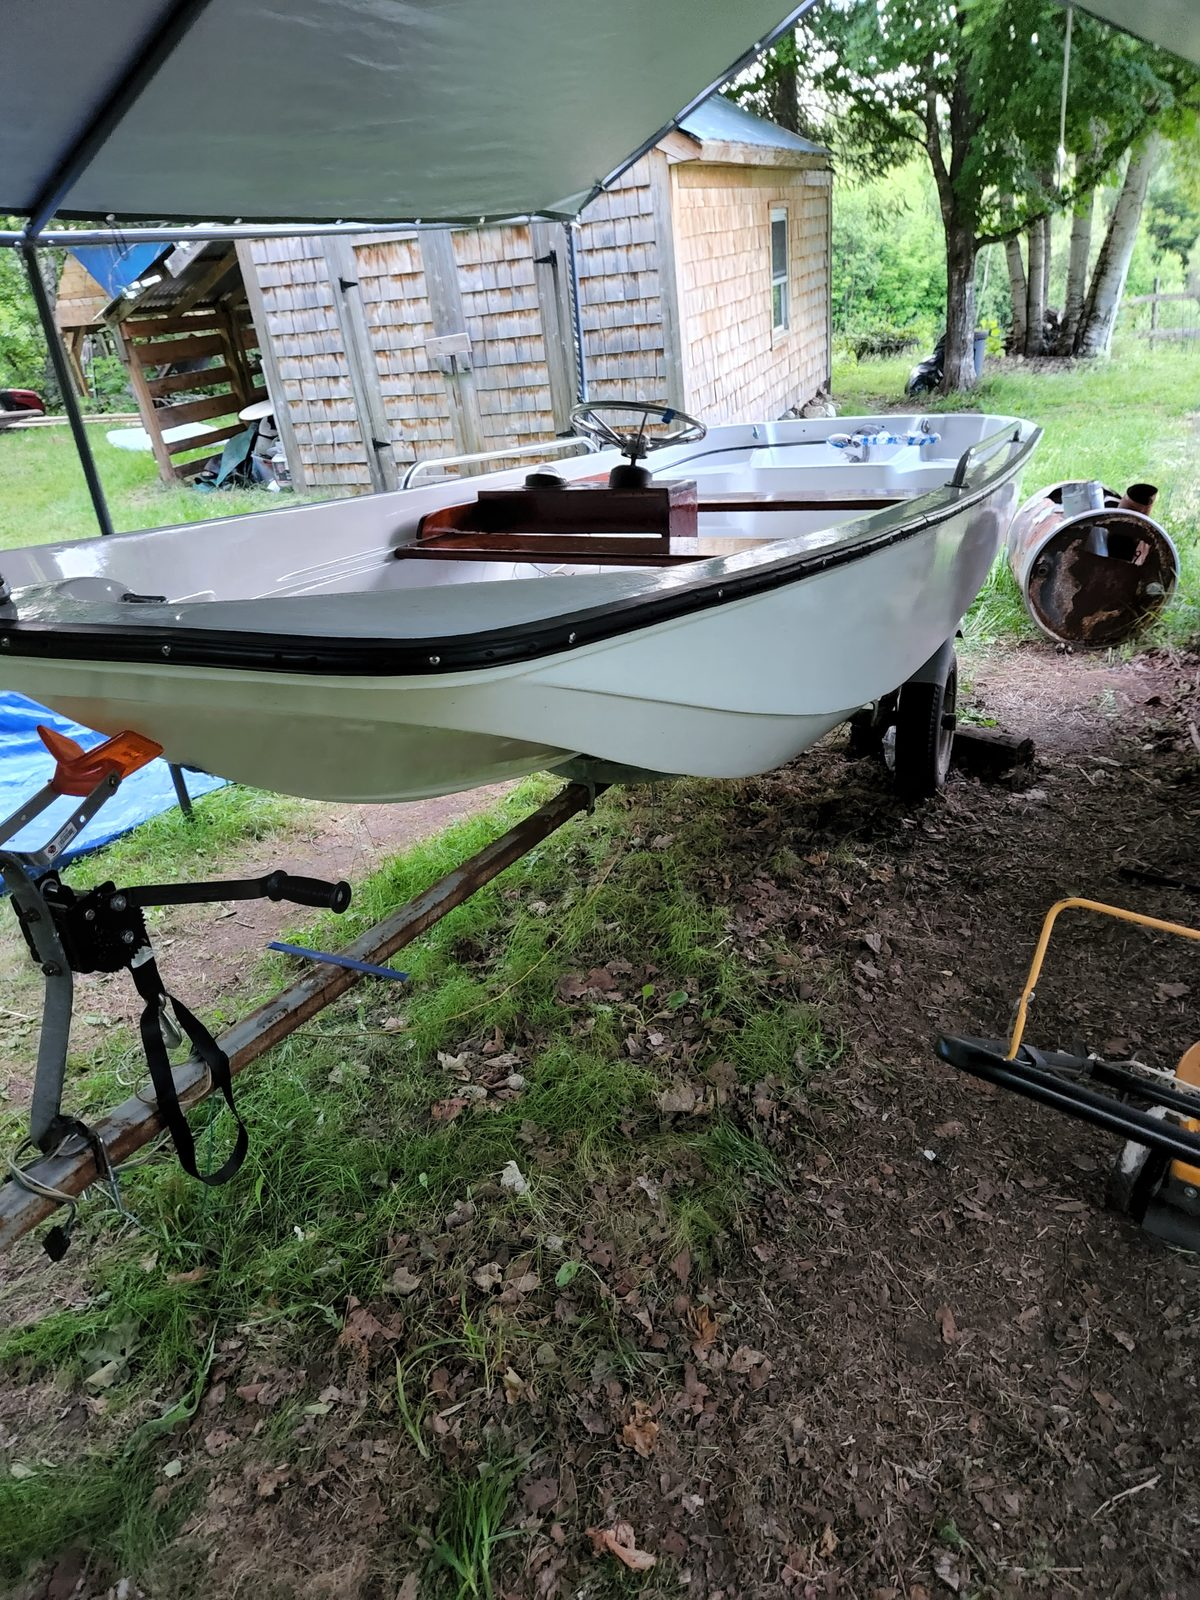
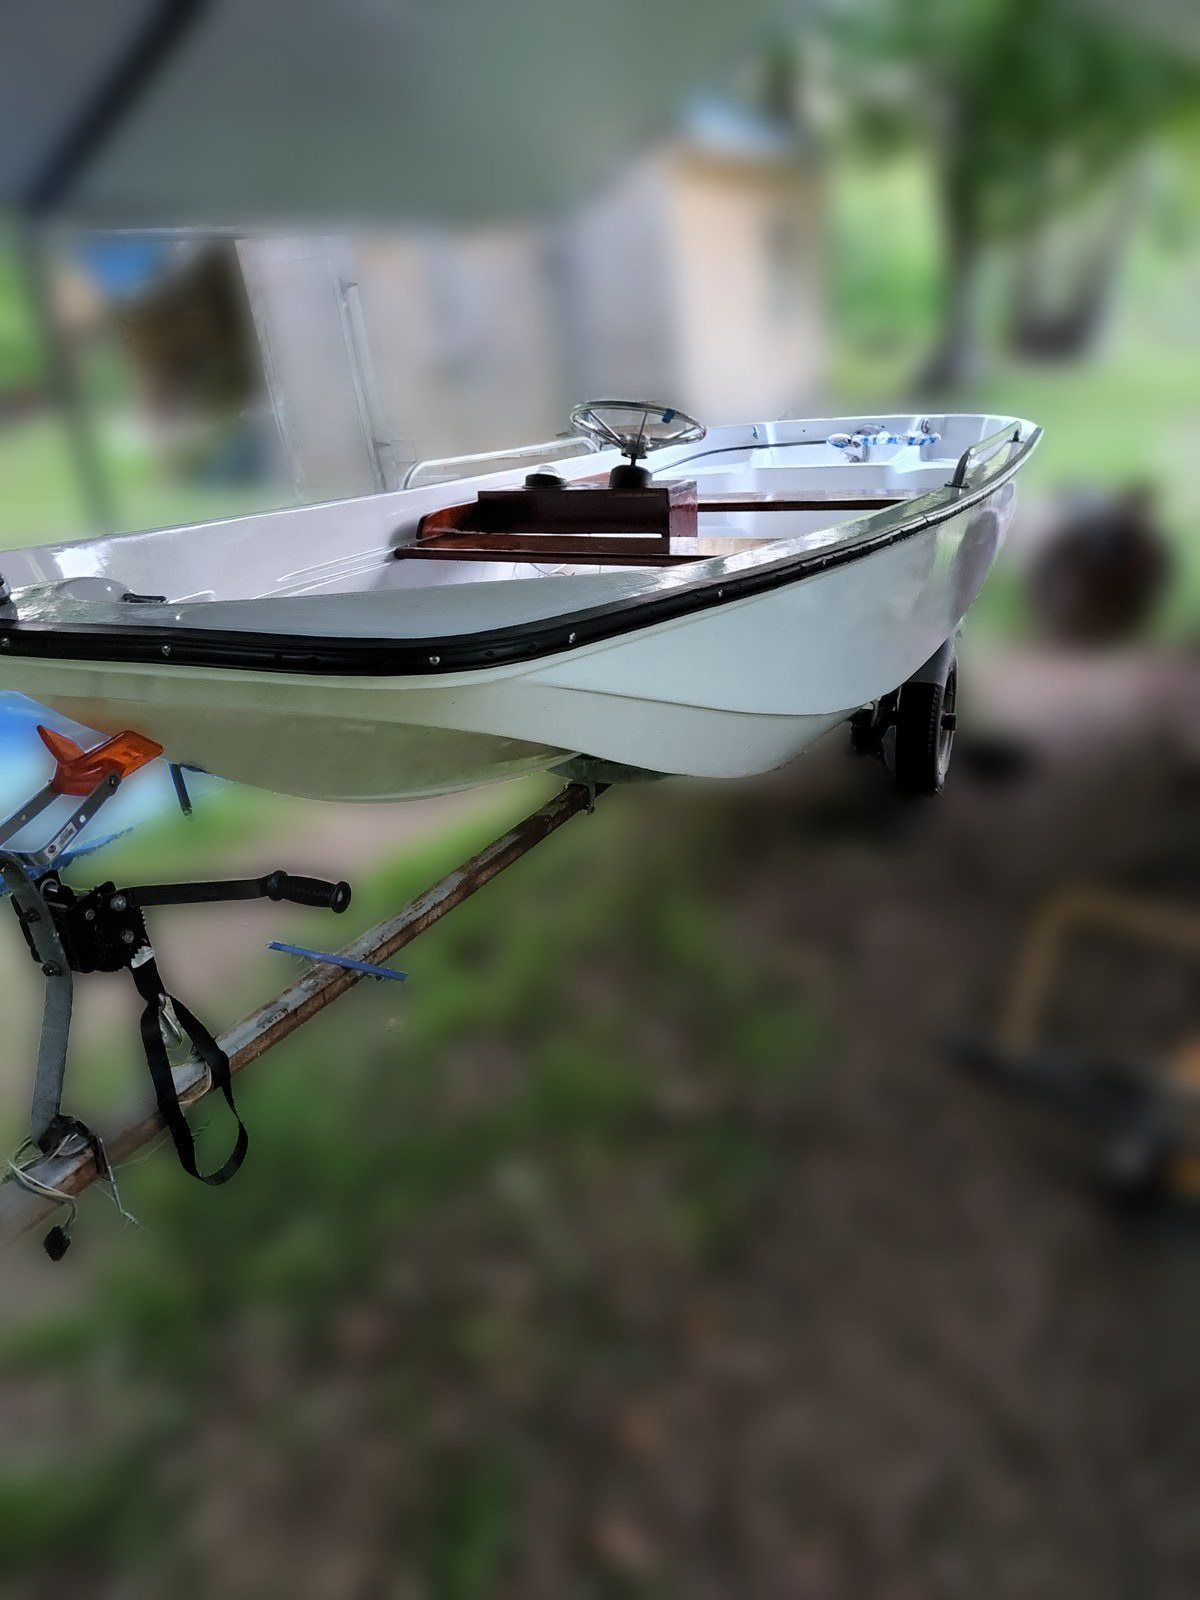
Blur the cluttered backgrounds in the restoration after photos
Replaces both restore-after images with versions where the work-tent
clutter (paint cans, tools, tarps, yard debris) is gaussian-blurred and
slightly dimmed while the boats and trailers stay pixel-identical, so
the finished restorations pop. Adds ?v=2 to the image URLs since the
_headers no-cache rules cover only HTML/JS/CSS.

diff --git a/app.js b/app.js
@@ -109,8 +109,8 @@ const CONFIG = {
   restorationPhotos: [
     { src: "images/restore-before-1-crop.jpg", label: "Before" },
     { src: "images/restore-before-2.jpg", label: "Before" },
-    { src: "images/restore-after-2.jpg",  label: "After"  },
-    { src: "images/restore-after.jpg",    label: "After"  },
+    { src: "images/restore-after-2.jpg?v=2",  label: "After"  },
+    { src: "images/restore-after.jpg?v=2",    label: "After"  },
   ],
 
   /* Certification badge shown in the credentials box on the Restoration tab.
